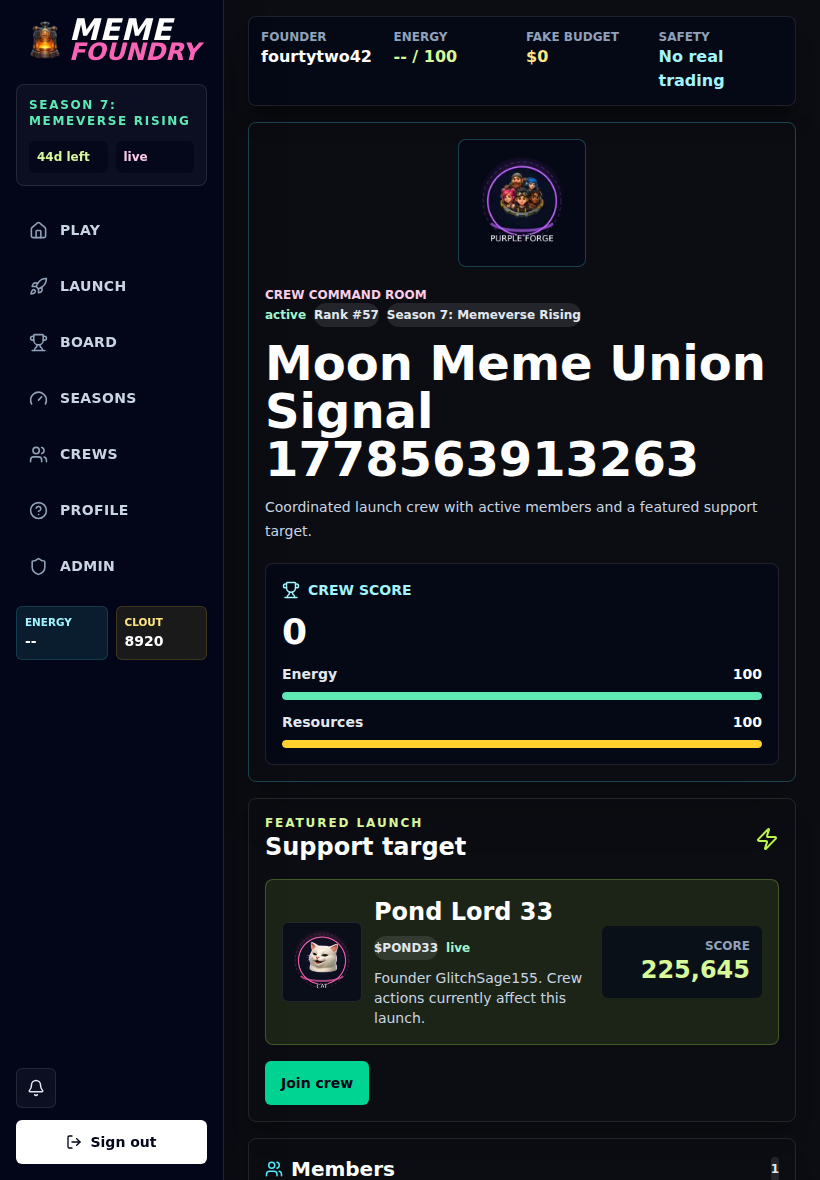
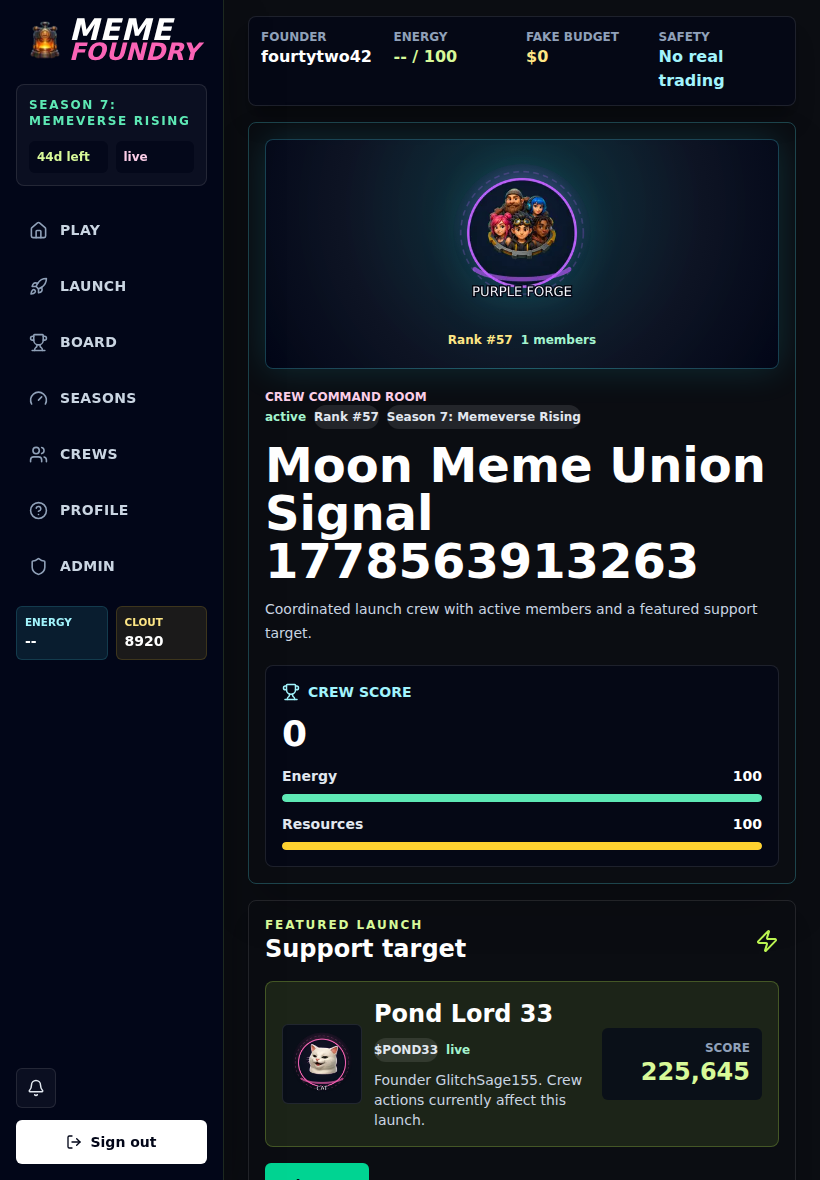
Align crew coordination page

Changed region(s): [[0.3049, 0.0915, 0.9756, 1.0], [0.7622, 0.8847, 0.9146, 0.9153]]

diff --git a/apps/web/src/app/crews/[slug]/page.tsx b/apps/web/src/app/crews/[slug]/page.tsx
@@ -13,6 +13,7 @@ import {
 } from "@meme-foundry/ui";
 import { auth } from "@/auth";
 import { AppShell } from "@/components/shell/app-shell";
+import { tokenImage } from "@/lib/assets";
 import {
   CREW_ACTION_CATALOG,
   type CrewActionId
@@ -146,15 +147,21 @@ export default async function CrewDetailPage({
         ) : null}
 
         <NeonPanel tone="cyan">
-          <div className="grid gap-5 xl:grid-cols-[8rem_minmax(0,1fr)_20rem] xl:items-center">
-            <Image
-              alt={`${crew.name} crew avatar`}
-              className="mx-auto size-32 rounded-lg border border-cyan-300/25 bg-slate-950/55 object-contain p-3"
-              height={128}
-              priority
-              src={crew.avatarUrl ?? "/assets/game/crews/default-avatar.png"}
-              width={128}
-            />
+          <div className="grid gap-5 xl:grid-cols-[14rem_minmax(0,1fr)_20rem] xl:items-center">
+            <div className="rounded-lg border border-cyan-300/25 bg-[radial-gradient(circle_at_50%_30%,rgba(34,211,238,0.22),rgba(15,23,42,0.78)_58%,rgba(2,6,23,0.96))] p-4 shadow-[0_0_36px_rgba(34,211,238,0.16)]">
+              <Image
+                alt={`${crew.name} crew avatar`}
+                className="mx-auto size-40 object-contain drop-shadow-[0_0_22px_rgba(34,211,238,0.22)]"
+                height={160}
+                priority
+                src={crew.avatarUrl ?? "/assets/game/crews/default-avatar.png"}
+                width={160}
+              />
+              <div className="mt-3 flex flex-wrap justify-center gap-2">
+                <Badge tone="warn">Rank #{rank}</Badge>
+                <Badge tone="good">{crew._count.members} members</Badge>
+              </div>
+            </div>
             <div>
               <Kicker className="text-cyan-100">Crew command room</Kicker>
               <div className="flex flex-wrap items-center gap-2">
@@ -216,11 +223,7 @@ export default async function CrewDetailPage({
                   alt={`${crew.featuredToken.name} token art`}
                   className="size-20 rounded-md border border-white/10 bg-slate-950/70 object-contain p-1"
                   height={80}
-                  src={
-                    crew.featuredToken.cardImageUrl ??
-                    crew.featuredToken.placeholderImageUrl ??
-                    "/assets/game/tokens/default-token-mascot.png"
-                  }
+                  src={tokenImage(crew.featuredToken)}
                   width={80}
                 />
                 <div>
@@ -444,6 +447,22 @@ export default async function CrewDetailPage({
               <h2 className="mb-4 flex items-center gap-2 font-black text-white">
                 <Trophy className="text-amber-300" size={18} /> Badges
               </h2>
+              <div className="mb-4 grid grid-cols-3 gap-2">
+                {[
+                  "/assets/game/crews/top-rank-badge.png",
+                  "/assets/game/crews/raid-ready-badge.png",
+                  "/assets/game/crews/lore-spread-badge.png"
+                ].map((src) => (
+                  <Image
+                    alt="Crew badge art"
+                    className="aspect-square w-full rounded-md border border-white/10 bg-slate-950/70 object-contain p-1"
+                    height={96}
+                    key={src}
+                    src={src}
+                    width={96}
+                  />
+                ))}
+              </div>
               <div className="grid gap-3 sm:grid-cols-3 xl:grid-cols-1">
                 <MetricChip label="Rank" tone="warn" value={`#${rank}`} />
                 <MetricChip

diff --git a/apps/web/src/lib/server/crew-actions.ts b/apps/web/src/lib/server/crew-actions.ts
@@ -291,9 +291,14 @@ export async function executeCrewActionForUser(input: {
     throw new CrewActionError("Not enough crew energy.");
   if (crew.resources < action.resourceCost)
     throw new CrewActionError("Not enough crew resources.");
-  const token = await prisma.launchToken.findFirstOrThrow({
+  const token = await prisma.launchToken.findFirst({
     where: { id: crew.featuredTokenId, status: "live" }
   });
+  if (!token) {
+    throw new CrewActionError(
+      "The featured launch is no longer live. Feature a live launch before running crew support."
+    );
+  }
   const idempotencyKey = `${crew.id}:${input.userId}:${input.actionId}:${input.nonce}`;
   const next = applyCrewEffects(token, action);
 

diff --git a/docs/evidence/PRD_SCREEN_ALIGNMENT_STAGE10_CREW_PAGE.md b/docs/evidence/PRD_SCREEN_ALIGNMENT_STAGE10_CREW_PAGE.md
@@ -1,0 +1,43 @@
+# PRD Screen Alignment Stage 10 Crew Page
+
+Date: 2026-05-13
+
+## Changes
+
+- Strengthened the crew hero with a larger avatar/banner treatment and first-viewport rank/member badges.
+- Updated featured launch art to use the shared token image helper.
+- Added generated crew badge art to the badges/rewards panel.
+- Fixed crew support server behavior so a stale/non-live featured launch returns a friendly game error instead of leaking a Prisma exception.
+
+## Browser-Use Verification
+
+Browser-use was run against `/crews/stage11-scale-crew-25`.
+
+Verified:
+
+- Crew identity, crew score/resources, featured launch, members, crew actions, badges, event feed, and recent actions are visible.
+- Generated crew avatar and badge assets render through the Next image pipeline.
+- No visible fixture/member-name hits for `E2E`, `chromium`, `stage15`, `stress`, `lorekeeper_`, or `forgemaster_`.
+- Browser-use joined the crew as the current supporter session.
+- Browser-use attempted a crew support action. The featured token was no longer live, and the app returned the friendly error: `The featured launch is no longer live. Feature a live launch before running crew support.`
+- The retry confirmed no `prisma.launchToken.findFirstOrThrow` / raw Prisma error leakage.
+- Console errors: `0`.
+
+## Automated Verification
+
+Passed:
+
+```bash
+pnpm --filter @meme-foundry/web typecheck
+pnpm --filter @meme-foundry/web build
+curl -fsS http://192.168.50.209/health
+PLAYWRIGHT_BASE_URL=http://192.168.50.209 pnpm test:visual-audit
+```
+
+## End Gate Result
+
+Stage 10 is complete.
+
+- First viewport better communicates crew identity, resources, featured launch, members, and action path.
+- Join works through browser-use.
+- Crew action attempts fail gracefully when the featured launch is stale.
